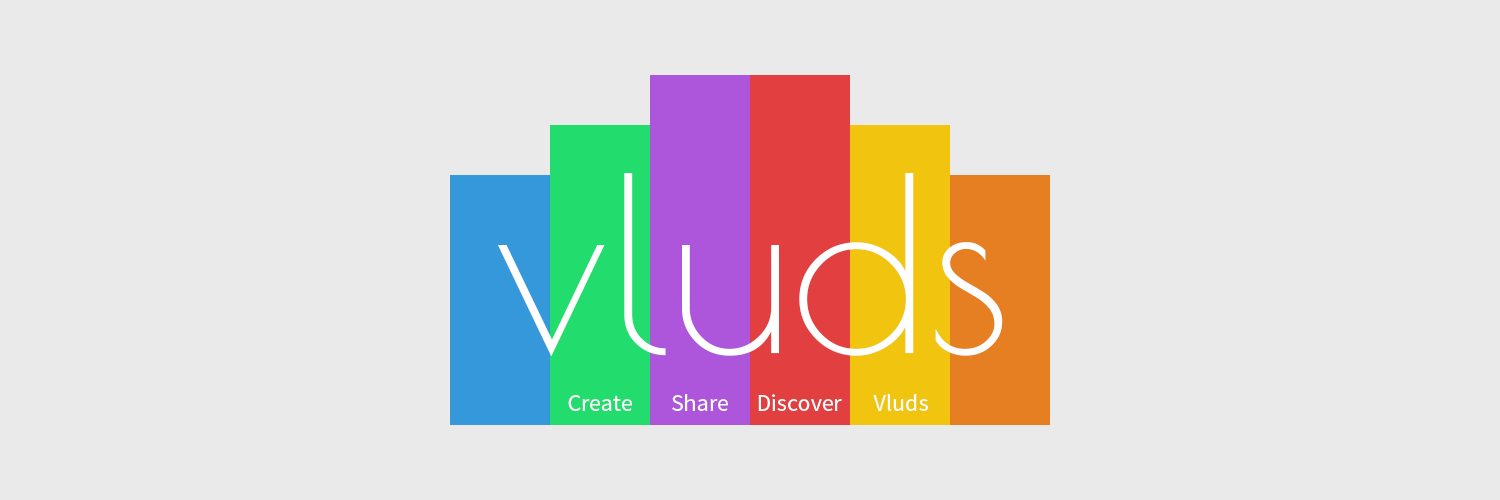
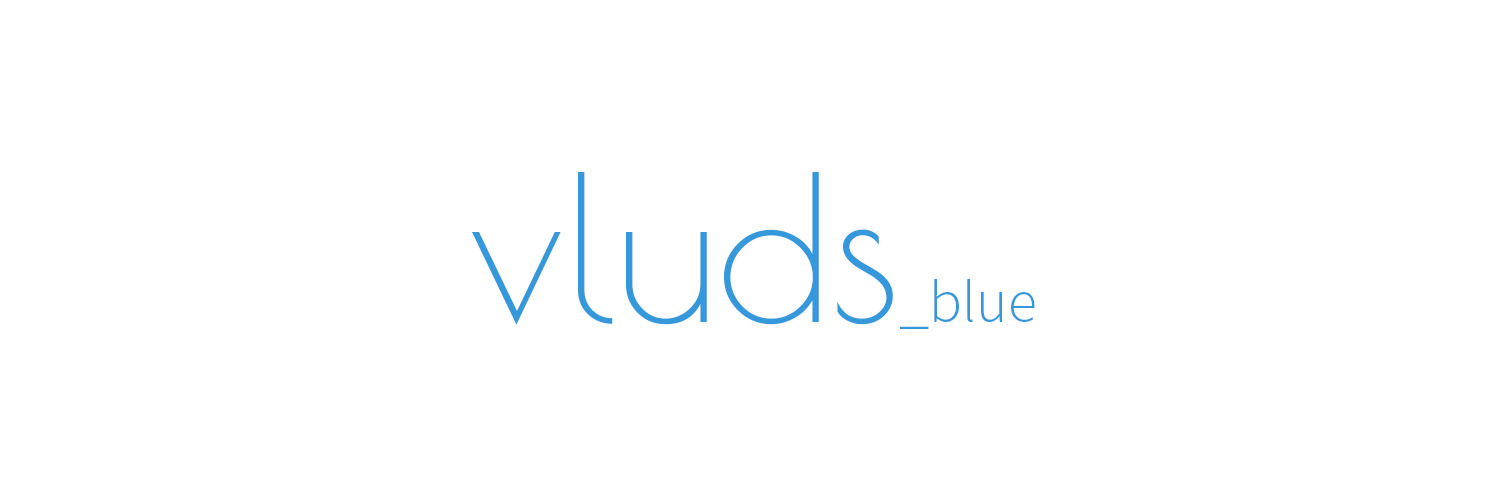
.

Changed region(s): [[0.276, 0.15, 0.7053, 0.87]]

diff --git a/README.md b/README.md
@@ -1,9 +1,11 @@
 ![Vluds](/img/banniere.png "Vluds")
-
- Social network for creative people. Discover creations, meet people, talk to them and share !
+ 
+ ###Vluds####_blue is the version 1.0 of Vluds.
+ Social network for **creative** people. Discover creations, meet people, talk to them and share !
+ Follow us on [Twitter](https://twitter.com/Vluds_)
 
 ##Database
-Use tack_bdd.sql for database connection
+Import into your database tack_bdd.sql for setup.
 
 ##Authors
 
